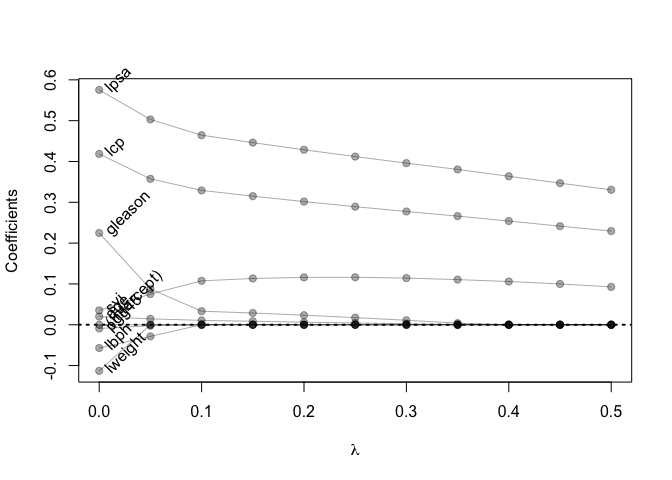
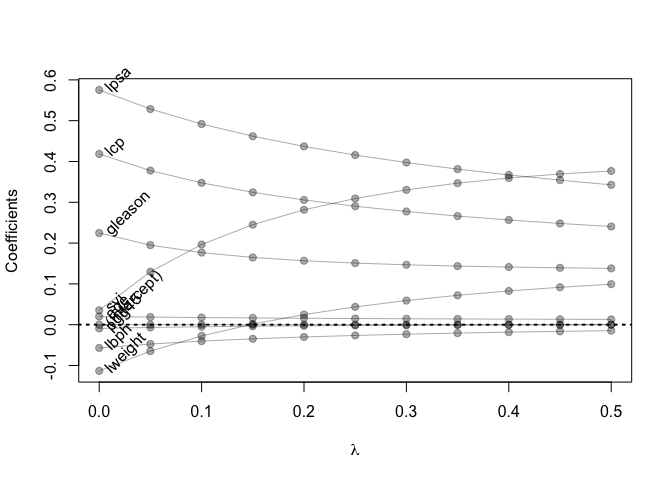
Corected alpha value

diff --git a/Homework-3/Homework3.md b/Homework-3/Homework3.md
@@ -192,7 +192,7 @@ Trains ridge regression model using glmnet
 form  <- lcavol ~  lweight + age + lbph + lcp + pgg45 + lpsa + svi + gleason
 x_inp <- model.matrix(form, data=prostate_train)
 y_out <- prostate_train$lcavol
-fit <- glmnet(x=x_inp, y=y_out, lambda=seq(0.5, 0, -0.05),alpha=.5)
+fit <- glmnet(x=x_inp, y=y_out, lambda=seq(0.5, 0, -0.05),alpha=0)
 print(fit$beta)
 ```
 
@@ -200,26 +200,36 @@ print(fit$beta)
 
     ##    [[ suppressing 11 column names 's0', 's1', 's2' ... ]]
 
-    ##                                                                                
-    ## (Intercept) .         .          .         .            .           .          
-    ## lweight     .         .          .         .            .           .          
-    ## age         .         .          .         0.0003894864 0.002320975 0.004313701
-    ## lbph        .         .          .         .            .           .          
-    ## lcp         0.2294623 0.24154340 0.2540724 0.2661649989 0.277441570 0.289274669
-    ## pgg45       .         .          .         .            .           .          
-    ## lpsa        0.3305721 0.34691310 0.3638096 0.3805189608 0.395973906 0.412018284
-    ## svi         0.0926727 0.09997708 0.1059081 0.1105946514 0.114304207 0.116251808
-    ## gleason     .         .          .         0.0039626023 0.010940153 0.017462117
-    ##                                                                         
-    ## (Intercept) .           .           .           .            .          
-    ## lweight     .           .           .           .           -0.112933921
-    ## age         0.006371217 0.008497991 0.01069908  0.014404395  0.020098113
-    ## lbph        .           .           .          -0.028483927 -0.056964741
-    ## lcp         0.301759296 0.315005922 0.32915376  0.357468308  0.418530969
-    ## pgg45       .           .           .          -0.002397585 -0.009123115
-    ## lpsa        0.428723351 0.446159446 0.46440996  0.502969322  0.575230287
-    ## svi         0.116073131 0.113352809 0.10757296  0.075176567  0.035283017
-    ## gleason     0.023430228 0.028730890 0.03322404  0.087684091  0.224747486
+    ##                                                                    
+    ## (Intercept)  .             .             .             .           
+    ## lweight      0.0993164708  9.167566e-02  0.0826683948  0.0719539791
+    ## age          0.0129153943  1.324527e-02  0.0136179441  0.0140406458
+    ## lbph        -0.0145798645 -1.634009e-02 -0.0183250211 -0.0206075810
+    ## lcp          0.2406189663  2.481045e-01  0.2566365965  0.2662889674
+    ## pgg45        0.0002559092 -6.282802e-05 -0.0004352183 -0.0008738898
+    ## lpsa         0.3427088262  3.542773e-01  0.3670625828  0.3813402190
+    ## svi          0.3767521726  3.693591e-01  0.3595330020  0.3468674180
+    ## gleason      0.1379543516  1.394770e-01  0.1413173561  0.1436779615
+    ##                                                                             
+    ## (Intercept)  .            .            .            .            .          
+    ## lweight      0.059127616  0.043652593  0.024777969  0.001504802 -0.027603986
+    ## age          0.014526957  0.015088490  0.015748487  0.016532948  0.017480107
+    ## lbph        -0.023258103 -0.026377963 -0.030098852 -0.034621150 -0.040241264
+    ## lcp          0.277447149  0.290342311  0.305728439  0.324372008  0.347616547
+    ## pgg45       -0.001398912 -0.002031353 -0.002810371 -0.003788173 -0.005050263
+    ## lpsa         0.397429712  0.415786556  0.437009864  0.461951799  0.491849702
+    ## svi          0.330415198  0.309283880  0.281608260  0.245177911  0.196427346
+    ## gleason      0.146778188  0.150949425  0.156678907  0.164800413  0.176722769
+    ##                                      
+    ## (Intercept)  .            .          
+    ## lweight     -0.064680201 -0.113137304
+    ## age          0.018643148  0.020098181
+    ## lbph        -0.047425776 -0.056962692
+    ## lcp          0.377657417  0.418431830
+    ## pgg45       -0.006739814 -0.009116838
+    ## lpsa         0.528596455  0.575318051
+    ## svi          0.129711598  0.035342349
+    ## gleason      0.194999807  0.224585243
 
 ## Question 5
 
